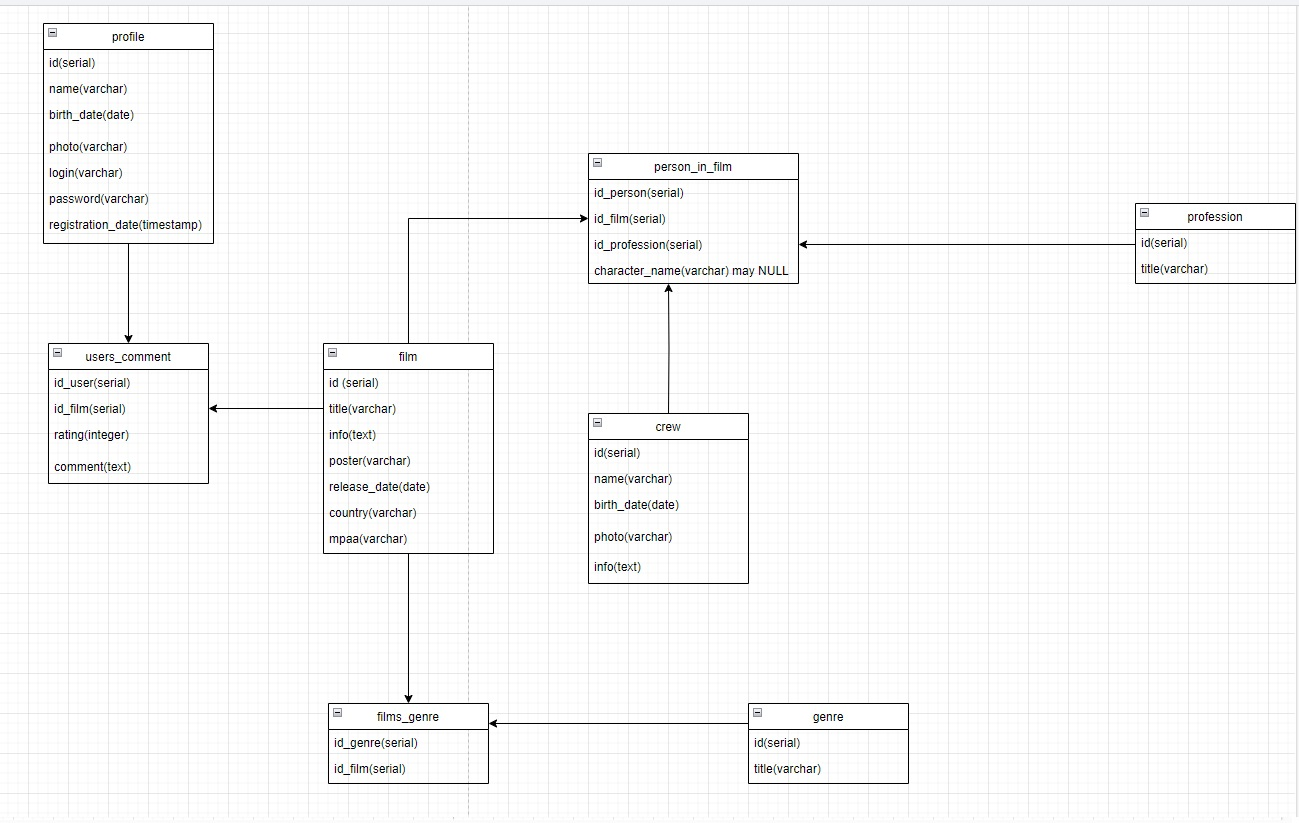
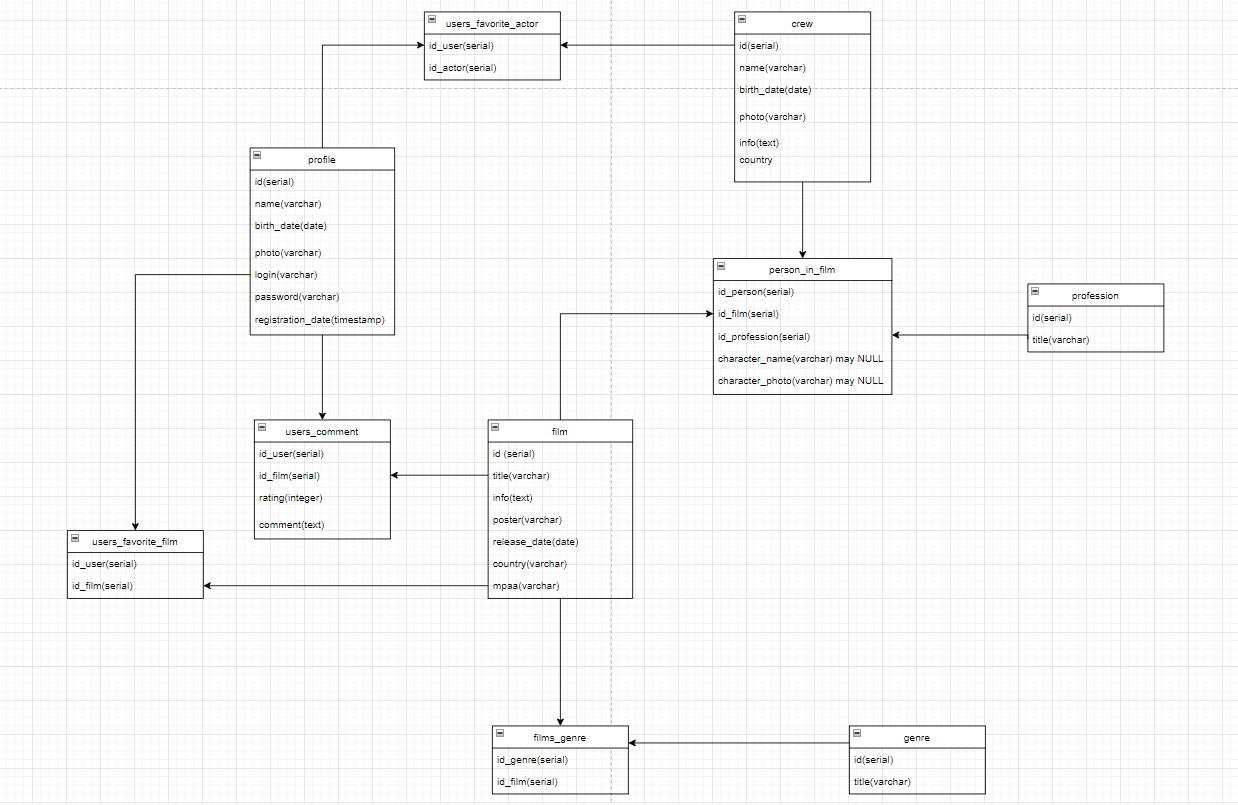
add users favorites film and actor

diff --git a/db/normalized/relations.md b/db/normalized/relations.md
@@ -44,5 +44,11 @@
 	отдельно и она уже будет float.
 	{ id_user, id_film } -> { comment, rating }
 
+Таблица users_favorite_actor:
+	Таблица избранных актёров пользователя.
+
+Таблица users_favorite_film:
+	Таблица избранных фильмов пользователя.
+
 
 В каждой таблице кортежи содержат только одно значение каждого из атрибутов, все неключевые атрибуты зависят от потенциальных ключей, но не зависят от неключевых. 
